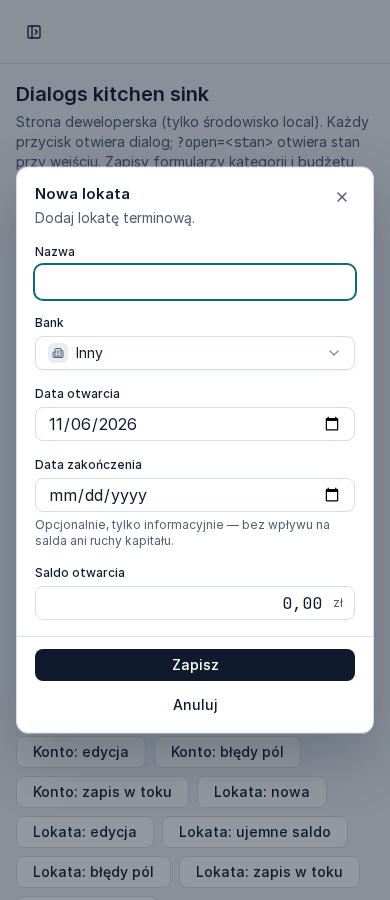
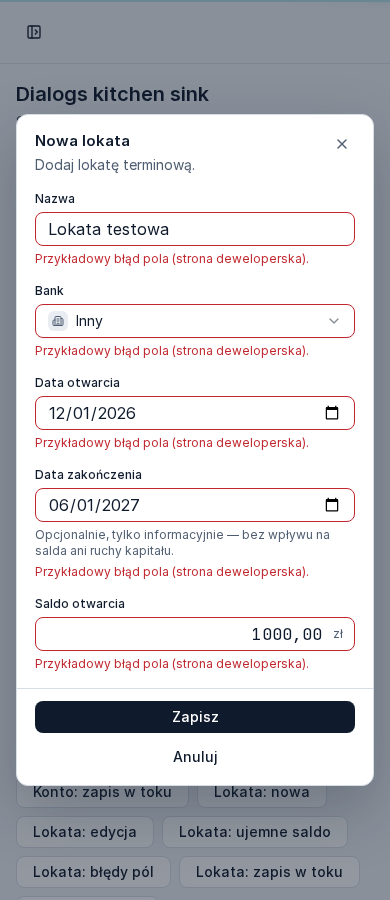
fix(term-deposits-atrament-ui): poprawki z przeglądu implementacji
F1: tabela Lokat w jednej linii i wiersz nagłówka od xl zamiast md
(obok sidebara między md a xl kolumna nazwy znikała, akcje były ucięte);
ADR-0051, design-system.md i js.md zaktualizowane.
F2: data zakończenia z prefiksem sr-only „Data zakończenia:”.
F3: zrzuty dialogu w stanach błędów i zapisu po wysłaniu formularza,
zrzuty 900 px.

diff --git a/resources/css/app.css b/resources/css/app.css
@@ -747,8 +747,10 @@
     }
 
     /**
-     * Term deposits table: below `md` a row is two lines (name + balance, then
-     * bank + end date + actions); from `md` it is one line of columns.
+     * Term deposits table: below `xl` a row is two lines (name + balance, then
+     * bank + end date + actions); from `xl` it is one line of columns. The fixed
+     * columns need ~610 px, so next to the sidebar the name column only gets
+     * room from `xl` (ADR-0051).
      */
     .term-deposits-grid {
         @apply grid items-center gap-x-4;
@@ -758,7 +760,7 @@
             'bank end actions';
     }
 
-    @variant md {
+    @variant xl {
         .term-deposits-grid {
             grid-template-columns: minmax(0, 1fr) 150px 150px 150px 96px;
             grid-template-areas: 'name bank end balance actions';
@@ -769,7 +771,7 @@
         @apply table-header border-border-soft hidden border-b px-4 py-2;
     }
 
-    @variant md {
+    @variant xl {
         .term-deposits-header-row {
             @apply grid;
         }
@@ -798,7 +800,7 @@
         @apply text-left;
     }
 
-    @variant md {
+    @variant xl {
         .term-deposits-cell-end {
             @apply text-right;
         }

diff --git a/resources/js/pages/TermDeposits.vue b/resources/js/pages/TermDeposits.vue
@@ -247,6 +247,9 @@ function toggleShowArchived(checked: boolean): void {
 
                 <p class="term-deposits-cell-end font-mono tabular-nums">
                     <template v-if="termDeposit.end_date">
+                        <span class="sr-only">
+                            {{ t.term_deposits.end_date }}:
+                        </span>
                         {{ formatDate(termDeposit.end_date) }}
                     </template>
                     <template v-else>

diff --git a/context/foundation/design-system.md b/context/foundation/design-system.md
@@ -15,7 +15,7 @@ Jedna strona zasad wyglądu aplikacji, dla ludzi i agentów. Decyzje stojące za
 - Kontrolki: `--control-height` 32 px dla Button `default`/`icon`, Input, SelectTrigger i `.native-select`; `--control-height-sm` 26 px dla Button `sm`/`icon-sm`; promień `radius-md`; wiersz tabeli ma `--row-height` 34 px. Pole formularza w `FormField` ma `--field-height` 34 px (pola w wierszu tytułu i w tabelach zostają 32/28 px); fokus 2 px `ring` przez `outline` (przyciski i elementy wyboru z odstępem 2 px, pola bez odstępu, z ramką schowaną), ADR-0040. Przycisk `outline` to `card` + `border` z hoverem `secondary`; wyłączony przycisk ma `muted` + `muted-foreground` (`ghost` i `link` tylko `muted-foreground`). Na powierzchni `primary` (pas edycji planu) drugorzędny przycisk to `ghost-inverse`: tekst `primary-foreground`, hover `primary-foreground/15`, wyłączony `primary-foreground/60`.
 - Selecty: `.native-select` dla prostych wyliczeń bez ikon; `Select` (Reka) gdy opcja pokazuje ikonę lub znak (np. `AccountBankSelect`). Oba mają 32 px i `radius-md`; `.native-select` stylizuje też `aria-invalid` (czerwona ramka).
 - Lista Budżetu używa `.budget-category-grid` (jeden markup na każdej szerokości, jak `.operations-grid` w Operacjach): na telefonie wiersz ma 2–3 linie, od `md` kolumny. Zarchiwizowane wiersze są w całości `muted-foreground`, bez kolorów statusu i bez `opacity`; reguły kolorów komórek są w `resources/js/lib/budget-category-cells.ts`. Wyjątek: ujemne saldo zarchiwizowanej lokaty i zarchiwizowanego konta zostaje `text-destructive` (FR-TD-08, FR-ACC-10, ADR-0044).
-- Listy i tabele: `ListSurface` z wierszami na siatce (`.operations-grid`, `.budget-category-grid`, `.accounts-grid`, `.term-deposits-grid`); wiersze oddzielone linią `border-soft`, hover `secondary`, wiersz sumy na `muted`. Nagłówki kolumn i podpisy mobilne nad wartościami (Inter 600, 12/16, zwykła wielkość liter, jedna linia, `muted-foreground`) przez styl `table-header` z `app.css` (jedyny przepis podpisu kolumny; wersaliki `label-caps` tylko nad miarami i w sidebarze), nigdy ręcznie składany z `text-xs … uppercase`. Tabela Kont ma siatkę `.accounts-grid` z wierszem nagłówka (Nazwa | Typ | Saldo bieżące | Akcje, przepis `table-header`), jednym markupem na każdej szerokości (na telefonie wiersz ma dwie linie) i znakiem banku `AccountMarkCompact` 28 px ze skrótem tekstowym banku („mB”, „PKO”; lista w `account-identity.ts`, najwyżej 3 znaki, ADR-0047), gotówka „zł” (ADR-0045); `Switch` „Pokaż zarchiwizowane” stoi w wierszu tytułu obok „Dodaj konto” (ADR-0045) i pojawia się tylko, gdy są zarchiwizowane konta albo filtr jest włączony (ADR-0047). Tabela Lokat ma siatkę `.term-deposits-grid` z wierszem nagłówka (Nazwa | Bank | Data zakończenia | Saldo bieżące | Akcje, przepis `table-header`), jednym markupem na każdej szerokości (na telefonie wiersz ma dwie linie: nazwa i saldo, potem bank, data i akcje), znakiem banku `AccountMarkCompact` ze skrótem i wyciszonym „—” z tekstem dla czytnika ekranu „Bez daty zakończenia” przy braku daty; `Switch` „Pokaż zarchiwizowane” stoi w wierszu tytułu obok „Dodaj lokatę” i pojawia się tylko, gdy są zarchiwizowane lokaty albo filtr jest włączony (ADR-0051). Lista Operacji ma klasy `.operations-grid`, `.operations-row` i `.operations-day-row` (wiersz dnia na tej samej siatce, tło `muted`) i nie ma wiersza nagłówków kolumn (ADR-0039). Żadna sekcja nie ma kolumny daty: wszystkie trzy są pogrupowane w dni, a datę niesie wiersz dnia (ADR-0039). Operacje finansowe mają kolumny Opis | Kategoria | Kwota | „⋯” i wiersz dnia z sumą z serwera; transfery własne i ruchy kapitału mają Opis | Konta | Kwota | „⋯” (`.operations-grid-transfer`) i wiersz dnia bez sumy (`OperationsDayRow` bez `sumMinorUnits`, grupy z `groupRowsByDay`). Widok to jeden panel aktywnej sekcji z zakładkami nad nim (ADR-0038): `ListSurface` `flush` (wiersze do krawędzi karty, z własnym odstępem `px-4`), na górze pasek filtrów (szukajka na całą wolną szerokość, presety miesiąca i „Filtry” po prawej, aktywne filtry w osobnej linii, bez licznika wyników), pod nim wiersze, pod nimi paginacja; stopka tylko w transferach i ruchach kapitału (objaśnienie), bez „Kwoty w zł”. Lista podglądu importu ma `.import-preview-grid`, `.import-preview-header-row` (nagłówek ukryty poniżej `xl`) i `.import-preview-row` z modyfikatorami `-duplicate` (tint `warning/10`) i `-pair` (tint `pair/10`, kandydat na parę przelewu własnego).
+- Listy i tabele: `ListSurface` z wierszami na siatce (`.operations-grid`, `.budget-category-grid`, `.accounts-grid`, `.term-deposits-grid`); wiersze oddzielone linią `border-soft`, hover `secondary`, wiersz sumy na `muted`. Nagłówki kolumn i podpisy mobilne nad wartościami (Inter 600, 12/16, zwykła wielkość liter, jedna linia, `muted-foreground`) przez styl `table-header` z `app.css` (jedyny przepis podpisu kolumny; wersaliki `label-caps` tylko nad miarami i w sidebarze), nigdy ręcznie składany z `text-xs … uppercase`. Tabela Kont ma siatkę `.accounts-grid` z wierszem nagłówka (Nazwa | Typ | Saldo bieżące | Akcje, przepis `table-header`), jednym markupem na każdej szerokości (na telefonie wiersz ma dwie linie) i znakiem banku `AccountMarkCompact` 28 px ze skrótem tekstowym banku („mB”, „PKO”; lista w `account-identity.ts`, najwyżej 3 znaki, ADR-0047), gotówka „zł” (ADR-0045); `Switch` „Pokaż zarchiwizowane” stoi w wierszu tytułu obok „Dodaj konto” (ADR-0045) i pojawia się tylko, gdy są zarchiwizowane konta albo filtr jest włączony (ADR-0047). Tabela Lokat ma siatkę `.term-deposits-grid` z wierszem nagłówka (Nazwa | Bank | Data zakończenia | Saldo bieżące | Akcje, przepis `table-header`), jednym markupem na każdej szerokości (poniżej `xl` wiersz ma dwie linie: nazwa i saldo, potem bank, data i akcje; od `xl` jedna linia i wiersz nagłówka, bo stałe kolumny karty obok sidebara zostawiają nazwie miejsce dopiero od `xl`), znakiem banku `AccountMarkCompact` ze skrótem i wyciszonym „—” z tekstem dla czytnika ekranu „Bez daty zakończenia” przy braku daty (data ma dla czytnika prefiks „Data zakończenia:”); `Switch` „Pokaż zarchiwizowane” stoi w wierszu tytułu obok „Dodaj lokatę” i pojawia się tylko, gdy są zarchiwizowane lokaty albo filtr jest włączony (ADR-0051). Lista Operacji ma klasy `.operations-grid`, `.operations-row` i `.operations-day-row` (wiersz dnia na tej samej siatce, tło `muted`) i nie ma wiersza nagłówków kolumn (ADR-0039). Żadna sekcja nie ma kolumny daty: wszystkie trzy są pogrupowane w dni, a datę niesie wiersz dnia (ADR-0039). Operacje finansowe mają kolumny Opis | Kategoria | Kwota | „⋯” i wiersz dnia z sumą z serwera; transfery własne i ruchy kapitału mają Opis | Konta | Kwota | „⋯” (`.operations-grid-transfer`) i wiersz dnia bez sumy (`OperationsDayRow` bez `sumMinorUnits`, grupy z `groupRowsByDay`). Widok to jeden panel aktywnej sekcji z zakładkami nad nim (ADR-0038): `ListSurface` `flush` (wiersze do krawędzi karty, z własnym odstępem `px-4`), na górze pasek filtrów (szukajka na całą wolną szerokość, presety miesiąca i „Filtry” po prawej, aktywne filtry w osobnej linii, bez licznika wyników), pod nim wiersze, pod nimi paginacja; stopka tylko w transferach i ruchach kapitału (objaśnienie), bez „Kwoty w zł”. Lista podglądu importu ma `.import-preview-grid`, `.import-preview-header-row` (nagłówek ukryty poniżej `xl`) i `.import-preview-row` z modyfikatorami `-duplicate` (tint `warning/10`) i `-pair` (tint `pair/10`, kandydat na parę przelewu własnego).
 - Siatka wiersza planu miesiąca to `.month-plan-grid` z wierszami `.month-plan-header-row` (przepis `table-header`), `.month-plan-row`, `.month-plan-group-row`, `.month-plan-total-row`, `.month-plan-idle-row` i stopką `.month-plan-footer`; podsumowanie minionego miesiąca to `.month-plan-summary-grid`. W widokach nie ma wartości arbitralnych (`text-[11px]`, `grid-cols-[...]`), tylko nazwane klasy z `app.css`.
 - Dialog (ADR-0040): okno `--dialog-width` 460 px na `card` z pełnym `border`, `radius-xl` (12 px) i cieniem `shadow-dialog`, nakładka `scrim`, tytuł `dialog-title` (15/20, 600) do lewej także na telefonie, stopka z ramką u góry na całą szerokość okna. „Anuluj” to `ghost` (ADR-0045), także w pasie edycji i w Planie miesiąca w trybie zmian. Potwierdzenia, także z treścią (np. ostrzeżenie o deficycie jako `Alert` `warning`), idą przez `ConfirmActionDialog`, nigdy ręcznie złożony `DialogContent`; zapis w toku ma spinner i blokadę zamykania.
 - Szerokość kolumn: prawa kolumna Dashboardu (panele Konta i Lokaty) ma stałą szerokość `--aside-width` 300 px zamiast 2/3 + 1/3 (od ADR-0043; token dochodzi do `app.css` wraz z kodem tej zmiany).

diff --git a/context/changes/term-deposits-atrament-ui/reviews/impl-review.md b/context/changes/term-deposits-atrament-ui/reviews/impl-review.md
@@ -40,7 +40,7 @@ Plan adherence: every "Changes Required" item matches (drift review: no MISSING,
   - Tradeoff: At 768 px with the sidebar the card is ~446 px of content, so even narrow tracks leave the name column very small; the card's 150 px widths are lost.
   - Confidence: MED — needs re-measuring; may still clip at 768 px.
   - Blind spot: Long bank labels ("Lokaty Facto", "BNP Paribas") in a narrower column.
-- **Decision**: PENDING
+- **Decision**: FIXED via Fix A, adapted to `xl` — measured at `lg` (1024 px) the name column was 60 px with the tile, so the one-line layout and header row start at `xl` (1280 px, name column 316 px), as `.import-preview-grid` does. From 800 to 1279 px the two-line layout shows with nothing clipped and no page overflow. ADR-0051, `design-system.md` and `js.md` updated; shots `sink-*-900-light.png`.
 
 ### F2 — End date has no label for screen readers or on phones
 
@@ -50,7 +50,7 @@ Plan adherence: every "Changes Required" item matches (drift review: no MISSING,
 - **Location**: resources/js/pages/TermDeposits.vue:248-259
 - **Detail**: Before the change the row read "Data zakończenia: 15.01.2027". Now the cell is a bare date. The header row is plain `div`s without table roles (same as Accounts), so assistive technology cannot tie the date to its column, and below `md` the header is hidden. The missing-date case does have the sr-only "Bez daty zakończenia", so the two cases are inconsistent.
 - **Fix**: Prefix the date with `<span class="sr-only">{{ t.term_deposits.end_date }}: </span>`.
-- **Decision**: PENDING
+- **Decision**: FIXED — sr-only „Data zakończenia:” before the date; ADR-0051 and `design-system.md` mention it.
 
 ### F3 — Dialog screenshots for `errors` and `saving` show the empty create form
 
@@ -60,7 +60,7 @@ Plan adherence: every "Changes Required" item matches (drift review: no MISSING,
 - **Location**: context/changes/term-deposits-atrament-ui/screenshots/dialog-term-deposit-{errors,saving}-*.png
 - **Detail**: `dialog-term-deposit-new-1280-light.png`, `-errors-` and `-saving-` share md5 `8280a5ed…`, and the other three viewport/theme sets repeat this. `?open=term-deposit-errors` only opens the form; errors appear after a submit to `DialogsKitchenSinkController::validate`. The one-off script did not submit. The spinner is covered by `save-spinner-*`, but no screenshot shows field errors.
 - **Fix**: Re-shoot both states after clicking „Zapisz” (wait for the 422 for `errors`, shoot during the 1.5 s sleep for `saving`).
-- **Decision**: PENDING
+- **Decision**: FIXED — `dialog-term-deposit-errors-*` re-shot after a submit (5 fields `aria-invalid`, end date `aria-describedby` = hint + error), `dialog-term-deposit-saving-*` during the request (spinner, „Zapisz” disabled).
 
 ### F4 — Sink matrix says the switched-off Switch is in `default`
 

diff --git a/.ai/rules/js.md b/.ai/rules/js.md
@@ -35,7 +35,7 @@ Actions that need confirmation (delete, archive, restore) use `ConfirmActionDial
 
 ## Responsive lists are one markup on a grid, inside ListSurface
 
-Do not build a second mobile tree hidden with `md:hidden`. Use one row on a grid-template-areas class (`.operations-grid`, `.budget-category-grid`, `.accounts-grid`, `.term-deposits-grid`) inside a single `ListSurface`, with a `hidden md:grid` header row (the Operations list has no header row, ADR-0039). States of the Budget page (the 7-state matrix, without a month strip: execution rows within plan, income over 100%, overrun with the `przekroczono` Badge, archived, one-off without the year mark, paced with it; draft with a Type column; empty list; no budget; Switch on/off; StatPanel with 3 and 4 metrics) are shown in the kitchen sink at `/dev/kitchen-sink/budget` (`local` only); add a new Budget state there.
+Do not build a second mobile tree hidden with `md:hidden`. Use one row on a grid-template-areas class (`.operations-grid`, `.budget-category-grid`, `.accounts-grid`, `.term-deposits-grid`) inside a single `ListSurface`, with a `hidden md:grid` header row (the Operations list has no header row, ADR-0039). A grid whose fixed columns do not fit next to the sidebar at `md` switches at a wider breakpoint: `.term-deposits-grid` and `.import-preview-grid` at `xl` (ADR-0051). States of the Budget page (the 7-state matrix, without a month strip: execution rows within plan, income over 100%, overrun with the `przekroczono` Badge, archived, one-off without the year mark, paced with it; draft with a Type column; empty list; no budget; Switch on/off; StatPanel with 3 and 4 metrics) are shown in the kitchen sink at `/dev/kitchen-sink/budget` (`local` only); add a new Budget state there.
 The Dashboard (ADR-0043, ADR-0045) follows the same rule: the panel "Budżet <year>" holds two `ListSurface` tables, Dochody and Wydatki, on the `.category-meter-row` grid (Kategoria | Plan bieżący | Realizacja | Pozostało | Wykonanie, with a sum row and no tabs, group rows or Status column), not a second mobile tree, and the Accounts and Term Deposits panels are one markup at every width (no accordion). New Dashboard states go to `/dev/ui/dashboard`.
 
 ## Tokens and shared components come first; the UI literal check guards cleaned views

diff --git a/context/foundation/adr/0051-term-deposits-follow-design-system-page.md b/context/foundation/adr/0051-term-deposits-follow-design-system-page.md
@@ -4,7 +4,7 @@ ADR-0045 made the pages of the "C · Atrament i morski" design system (artifact 
 
 The table has the columns Nazwa | Bank | Data zakończenia | Saldo bieżące | Akcje, with a header row in the `table-header` style on the `.term-deposits-grid` class. Each balance goes through `formatMoney`, so it carries "zł", and the panel has no "Kwoty w zł" footer. This is the third exception to ADR-0037, next to the Operations list (ADR-0039) and the Accounts table (ADR-0044), and it supersedes ADR-0037 only for the unit in the Term Deposits table. The reason is the same as in ADR-0044: one column of amounts, no sum row, and the sums stand in the metrics panel.
 
-Below `md` a row has two lines: the name and the balance, then the bank, the date and the actions. The card has no mobile layout, and no column disappears. A Term Deposit without an end date shows a muted "—" in the column, with the screen reader text "Bez daty zakończenia", so the column stays even.
+Below `xl` a row has two lines: the name and the balance, then the bank, the date and the actions. The card has no mobile layout, and no column disappears. The one-line layout starts at `xl`, not `md` as in Accounts: the card's fixed columns (150 + 150 + 150 + 96 px plus gaps) need about 610 px. Next to the 16rem sidebar the card is narrower than that up to about 930 px, so at `md` the name column collapsed and the actions were clipped, and at `lg` (1024 px) the name column is only about 60 px wide with the bank tile (implementation review F1). From `xl` it gets about 300 px. The header row follows the same breakpoint, as in the import preview table. A Term Deposit without an end date shows a muted "—" in the column, with the screen reader text "Bez daty zakończenia", so the column stays even. A date carries the screen reader prefix "Data zakończenia:", because the header row is hidden below `xl` and is not a table header for assistive technology.
 
 The metrics panel is a `StatPanel` with "Suma lokat" and "Łączne środki" ("konta i lokaty"). The caption of "Suma lokat" is "W tym zarchiwizowane: …", set in the slot, and a negative amount is `destructive`. Both measures take their tone from `amountToneClass`, as in the Accounts view, although the card does not tone "Suma lokat".
 
